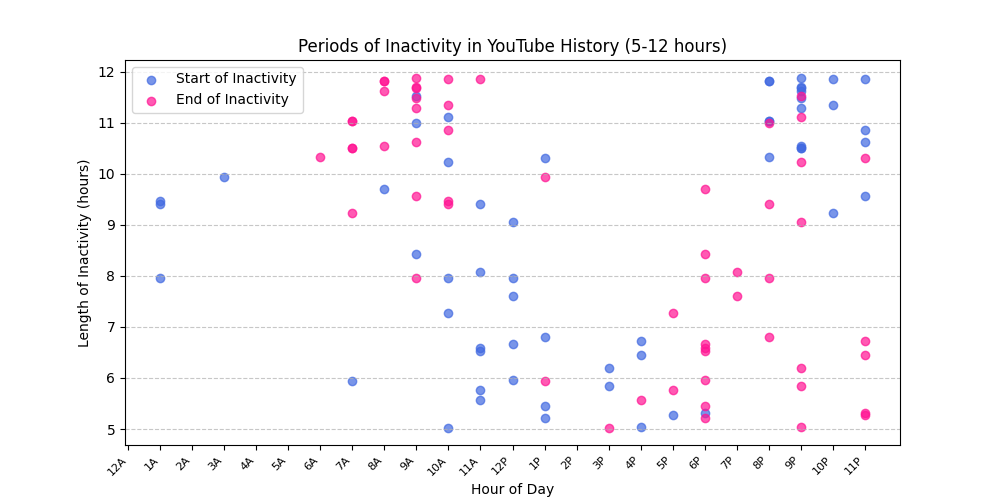
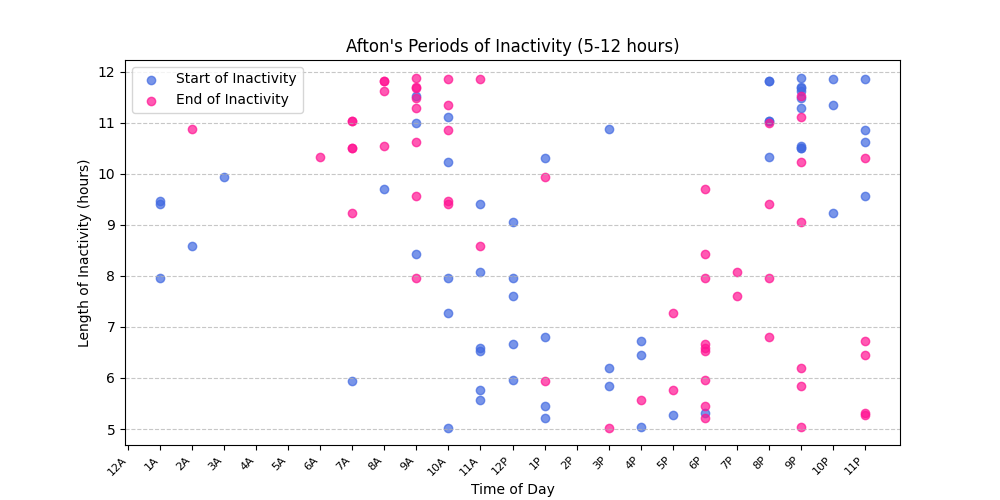
Inactivity Updates

diff --git a/Amueller_Code/Afton_HTML_inactivity.py b/Amueller_Code/Afton_HTML_inactivity.py
@@ -1,26 +1,47 @@
 import re
 import os
+import json
 import matplotlib.pyplot as plt
-import numpy as np
 from datetime import datetime
 
-def extract_datetimes(file_path):
+# File paths
+html_file_path = r"C:\Users\equus\CS4501\search-history.html"
+json_file_path = r"C:\Users\equus\CS4501\History.json"
+
+# Function to extract timestamps from YouTube HTML file
+def extract_html_datetimes(file_path):
     if not os.path.exists(file_path):
-        print("Error: File not found. Check the path:", file_path)
-        exit()
+        print("Error: YouTube file not found. Check the path:", file_path)
+        return []
     
     with open(file_path, 'r', encoding='utf-8') as file:
         content = file.read()
     
-    # Regular expression to find date and time combinations
     datetime_pattern = re.compile(r'([A-Za-z]{3} \d{1,2}, \d{4}, \d{1,2}:\d{2}:\d{2}\s?[AP]M)')
     matches = datetime_pattern.findall(content)
     
-    # Convert extracted datetime strings to datetime objects
-    datetime_objects = [datetime.strptime(dt, '%b %d, %Y, %I:%M:%S %p') for dt in matches]
-    
-    return sorted(datetime_objects)
+    return sorted(datetime.strptime(dt, '%b %d, %Y, %I:%M:%S %p') for dt in matches)
 
+# Function to extract timestamps from Chrome JSON file
+def extract_json_datetimes(file_path):
+    if not os.path.exists(file_path):
+        print("Error: Chrome file not found. Check the path:", file_path)
+        return []
+    
+    with open(file_path, 'r') as file:
+        data = json.load(file)
+
+    chrome_history = data.get('Chrome Browser History', [])
+    
+    timestamps = []
+    for entry in chrome_history:
+        timestamp = entry.get('time_usec', 0)
+        if timestamp:
+            timestamps.append(datetime.utcfromtimestamp(timestamp / 1_000_000))
+    
+    return sorted(timestamps)
+
+# Function to plot inactivity periods
 def plot_inactivity_periods(datetimes):
     inactivity_start_hours = []
     inactivity_end_hours = []
@@ -39,20 +60,24 @@ def plot_inactivity_periods(datetimes):
     plt.scatter(inactivity_start_hours, inactivity_lengths, color='royalblue', alpha=0.7, label="Start of Inactivity")
     plt.scatter(inactivity_end_hours, inactivity_lengths, color='deeppink', alpha=0.7, label="End of Inactivity")
 
-    plt.xlabel("Hour of Day")
+    plt.xlabel("Time of Day")
     plt.ylabel("Length of Inactivity (hours)")
-    plt.title("Periods of Inactivity in YouTube History (5-12 hours)")
-    
-    # Format x-axis labels as 12A, 1A, ..., 12P, 1P, ..., 11P
+    plt.title("Afton's Periods of Inactivity (5-12 hours)")
+
+    # Convert hours to 12-hour format with AM/PM
     hour_labels = ["12A"] + [f"{h}A" for h in range(1, 12)] + ["12P"] + [f"{h}P" for h in range(1, 12)]
     plt.xticks(range(24), hour_labels, rotation=45, fontsize=8, ha='right')
-    
+
     plt.grid(axis='y', linestyle='--', alpha=0.7)
     plt.legend()
     plt.show()
 
-# Specify the path to your file
-file_path = r"C:\Users\equus\CS4501\search-history.html"
+# Extract timestamps from both sources
+html_datetimes = extract_html_datetimes(html_file_path)
+json_datetimes = extract_json_datetimes(json_file_path)
 
-datetimes = extract_datetimes(file_path)
-plot_inactivity_periods(datetimes)
+# Merge and sort both datasets
+all_datetimes = sorted(html_datetimes + json_datetimes)
+
+# Plot inactivity periods
+plot_inactivity_periods(all_datetimes)
